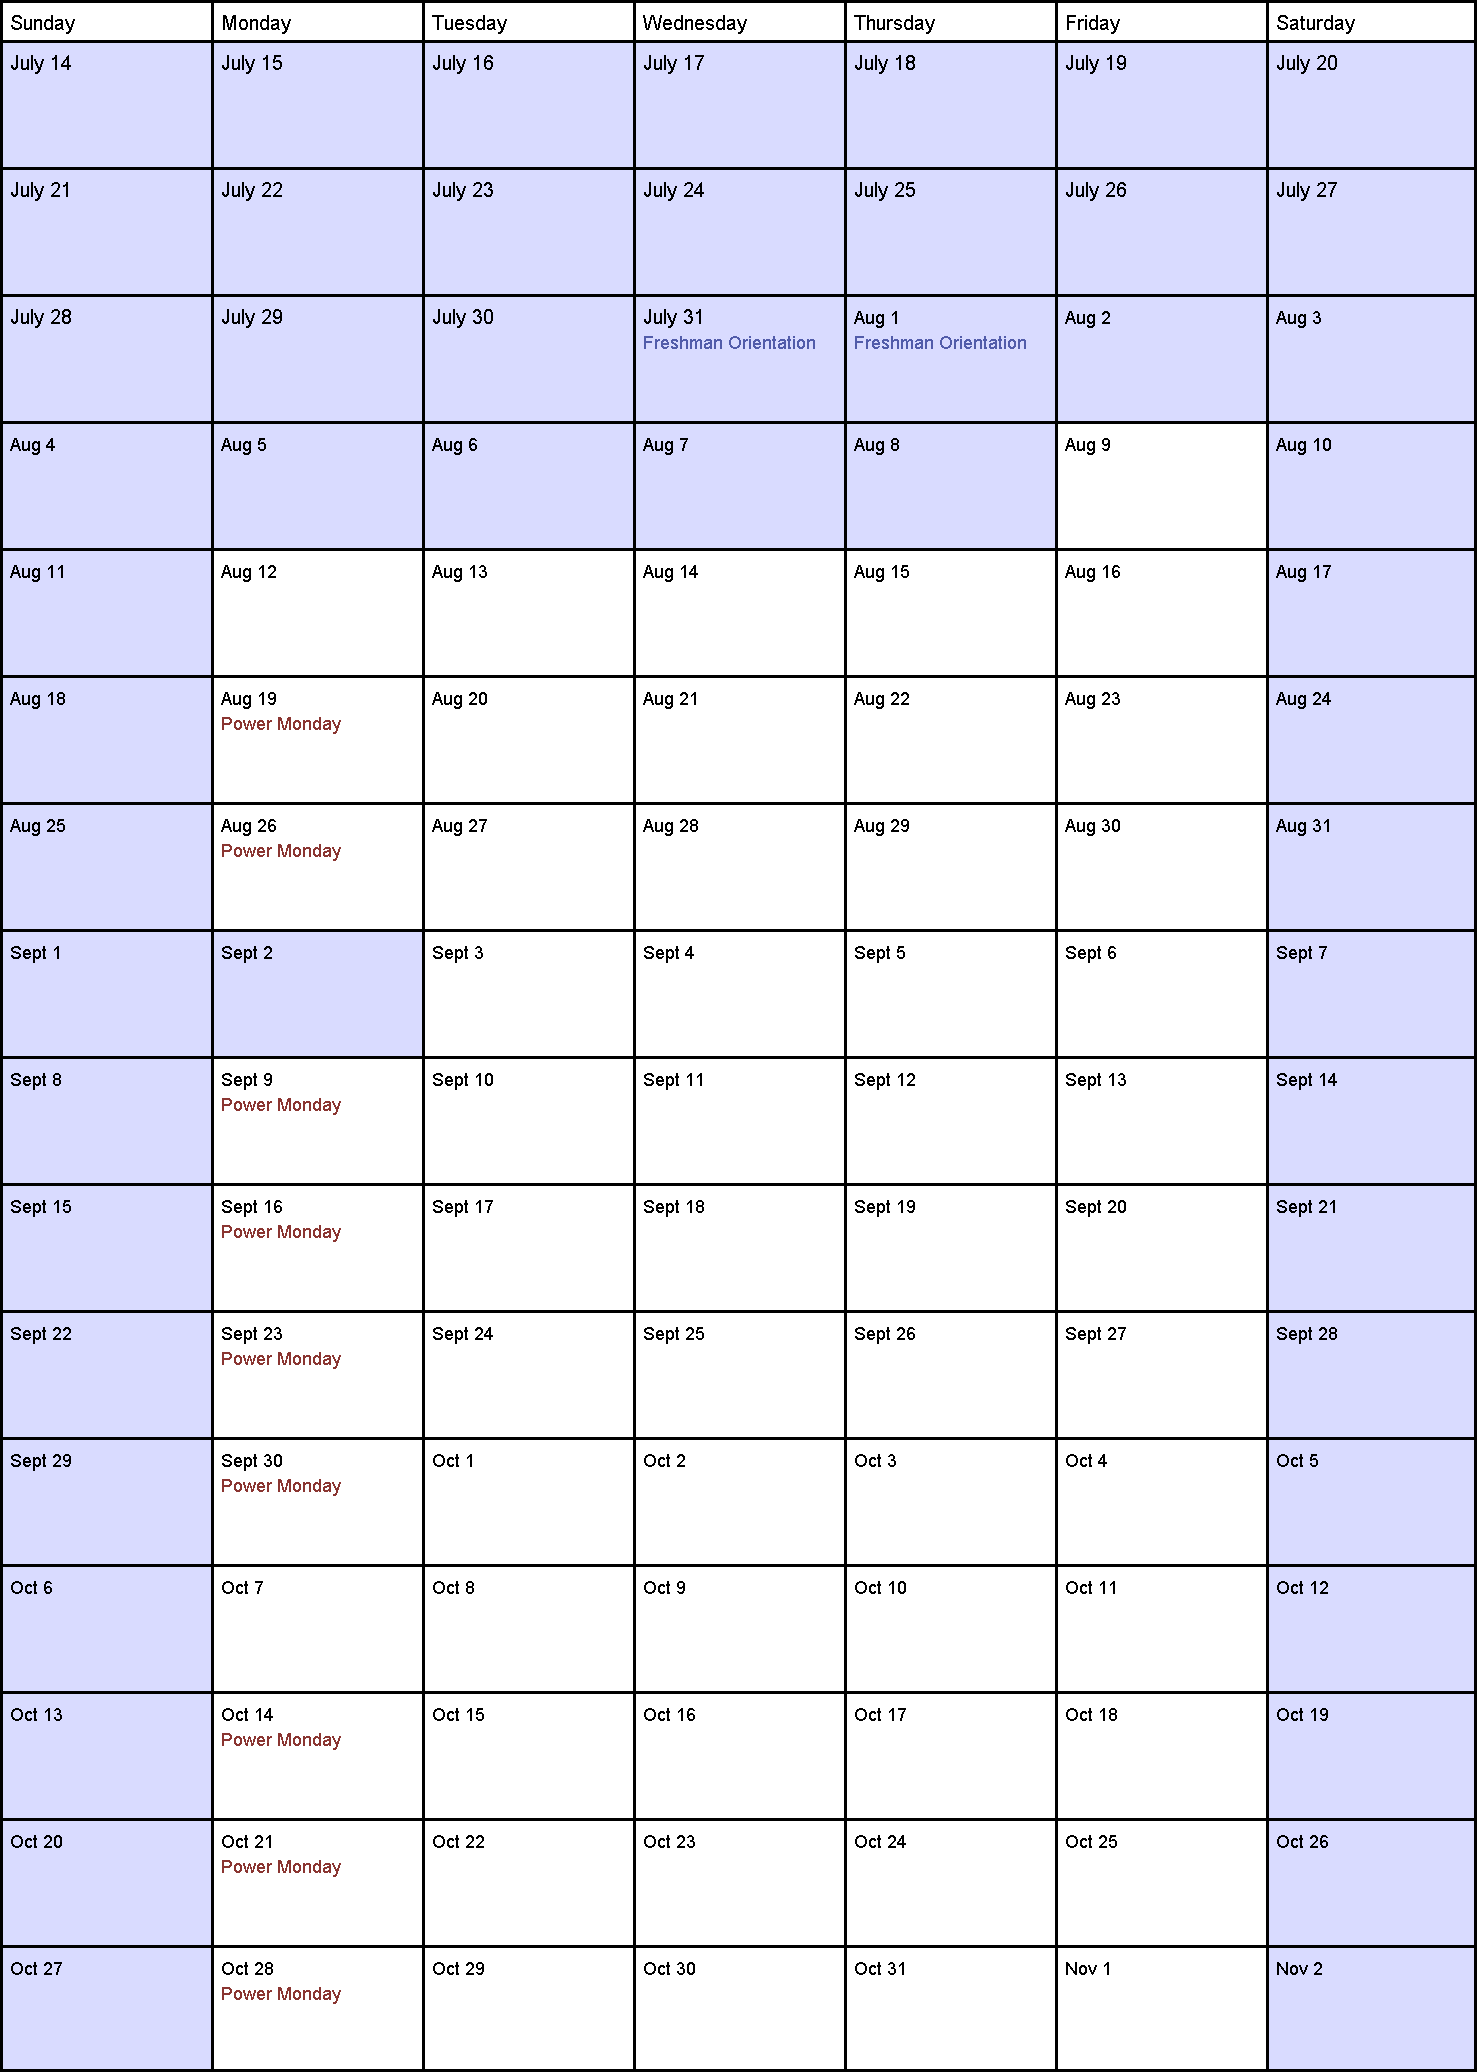
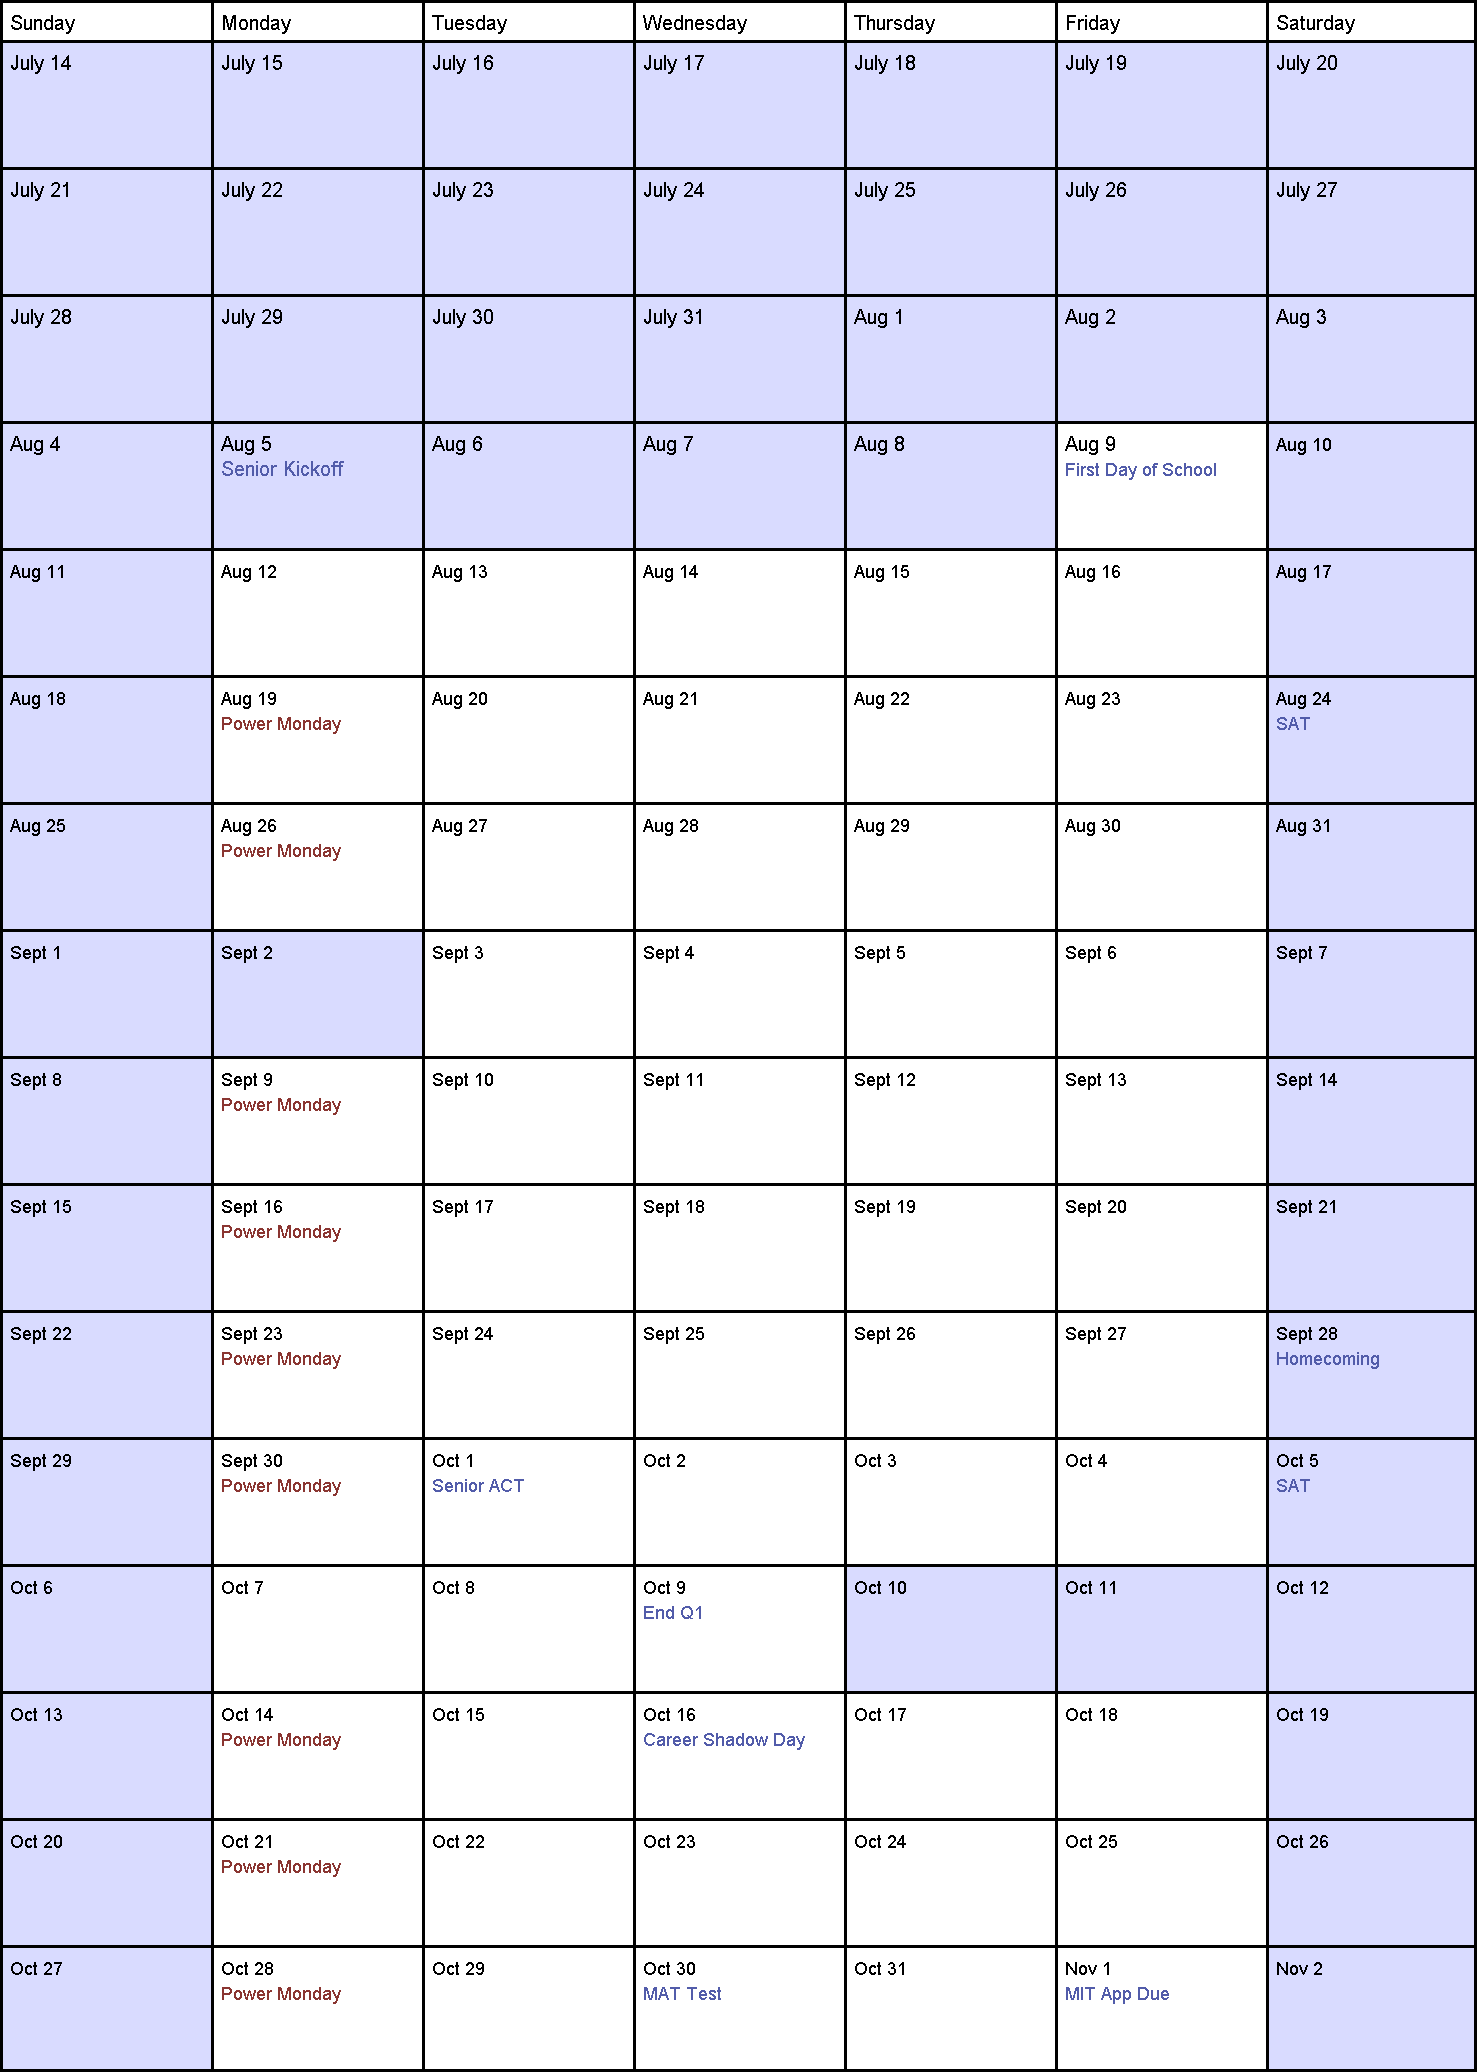
updated

Changed region(s): [[0.5606, 0.7413, 0.872, 0.834], [0.5917, 0.1544, 0.6229, 0.1853], [0.1557, 0.2162, 0.1869, 0.2471]]

diff --git a/src/Calendar.java b/src/Calendar.java
@@ -57,8 +57,6 @@ public class Calendar extends Applet implements Runnable, KeyListener {
         setColors();
         addPowerMondays();
         addEvents();
-        addGSSE();
-        addVacations();
         thread=new Thread(this);
         thread.start();
     }
@@ -66,12 +64,16 @@ public class Calendar extends Applet implements Runnable, KeyListener {
     //           ADD EVENTS TO THE CALENDAR
     public void addEvents(){
         addWeeklyEvents();
-        addEvent("Subject Tests", getDayofYear(1,6),1);
-        addEvent("Yearbook Pic Due", getDayofYear(23,6),1);
-        addEvent("STEM Skills Due", getDayofYear(24,6),1);
-        addEvent("Neodymium Due", getDayofYear(26,6),1);
-        addEvent("SAT Scores Released", getDayofYear(10,7), 1);
-
+        addEvent("Senior Kickoff", getDayofYear(5,8), 1);
+        addEvent("First Day of School", getDayofYear(9,8), 1);
+        addEvent("Homecoming", getDayofYear(28,9), 1);
+        addEvent("SAT", getDayofYear(24,8), 1);
+        addEvent("SAT", getDayofYear(5,10), 1);
+        addEvent("Senior ACT", getDayofYear(1,10), 1);
+        addEvent("End Q1", getDayofYear(9,10), 1);
+        addEvent("Career Shadow Day", getDayofYear(16,10), 1);
+        addEvent("MAT Test", getDayofYear(30,10), 1);
+        addEvent("MIT App Due", getDayofYear(1,11), 1);
     }
 
 
@@ -86,60 +88,6 @@ public class Calendar extends Applet implements Runnable, KeyListener {
                 }
             }
         }
-    }
-
-    private void addGSSE(){
-        int m=6;
-        int sd=2;
-        int ed=29;
-        Color c=new Color(255, 222, 204);
-        int start=getDayofYear(sd,m);
-        int end=getDayofYear(ed,m);
-        for (int i=start; i<=end; i++){
-            if (i>this.end||i-this.start<0){continue;}
-            colors[i-this.start]=c;
-        }
-        addEvent("GSSE Starts",6,2, 1);
-        addEvent("Evening Activity",6,3, 1);
-        addEvent("Ice Cream Social",6,5, 1);
-        addEvent("Pool Party",6,9, 1);
-        addEvent("Research Paper Due",6,11, 1);
-        addEvent("'The Ocoee Dams'",6,13, 1);
-        addEvent("STEM in Society Ends",6,14, 1);
-        addEvent("River Trip",6,15, 1);
-        addEvent("Start of STEM Skills",6,17, 1);
-        addEvent("Prom",6,21, 1);
-        addEvent("Talent Show",6,23, 1);
-        addEvent("Classes End",6,28, 1);
-        addEvent("GSSE Ends",6,29, 1);
-        addEvent("Independence Day",7,4, 1);
-        addEvent("AP Scores Released",7,5, 1);
-        addEvent("Freshman Orientation",7,31, 1);
-        addEvent("Freshman Orientation",8,1, 1);
-
-    }
-    private void addVacations(){
-        Color c=new Color(250, 229, 255);
-        int start=getDayofYear(24,5);
-        int end=getDayofYear(26,5);
-        for (int i=start; i<=end; i++){
-            if (i>this.end||i-this.start<0){continue;}
-            colors[i-this.start]=c;
-        }
-        addEvent("Fly to NYC",5,24, 1);
-        addEvent("Return from NYC",5,26, 1);
-
-        c=new Color(201, 255, 206);
-        start=getDayofYear(1,7);
-        end=getDayofYear(7,7);
-        for (int i=start; i<=end; i++){
-            if (i>this.end||i-this.start<0){continue;}
-            colors[i-this.start]=c;
-        }
-        addEvent("Fly to Yosemite",7,1, 1);
-        addEvent("Leave Yosemite",7,7, 1);
-
-
     }
 
     private void setHasSchool(){
@@ -161,6 +109,8 @@ public class Calendar extends Applet implements Runnable, KeyListener {
             noSchool[i-start]=true;
         }
         noSchool[getDayofYear(2,9)-start]=true;
+        noSchool[getDayofYear(11,10)-start]=true;
+        noSchool[getDayofYear(10,10)-start]=true;
         //noSchool[getDayofYear(19,4)-start]=true;
 //        noSchool[getDayofYear(22,5)-start]=true;
   //      noSchool[getDayofYear(23,5)-start]=true;
